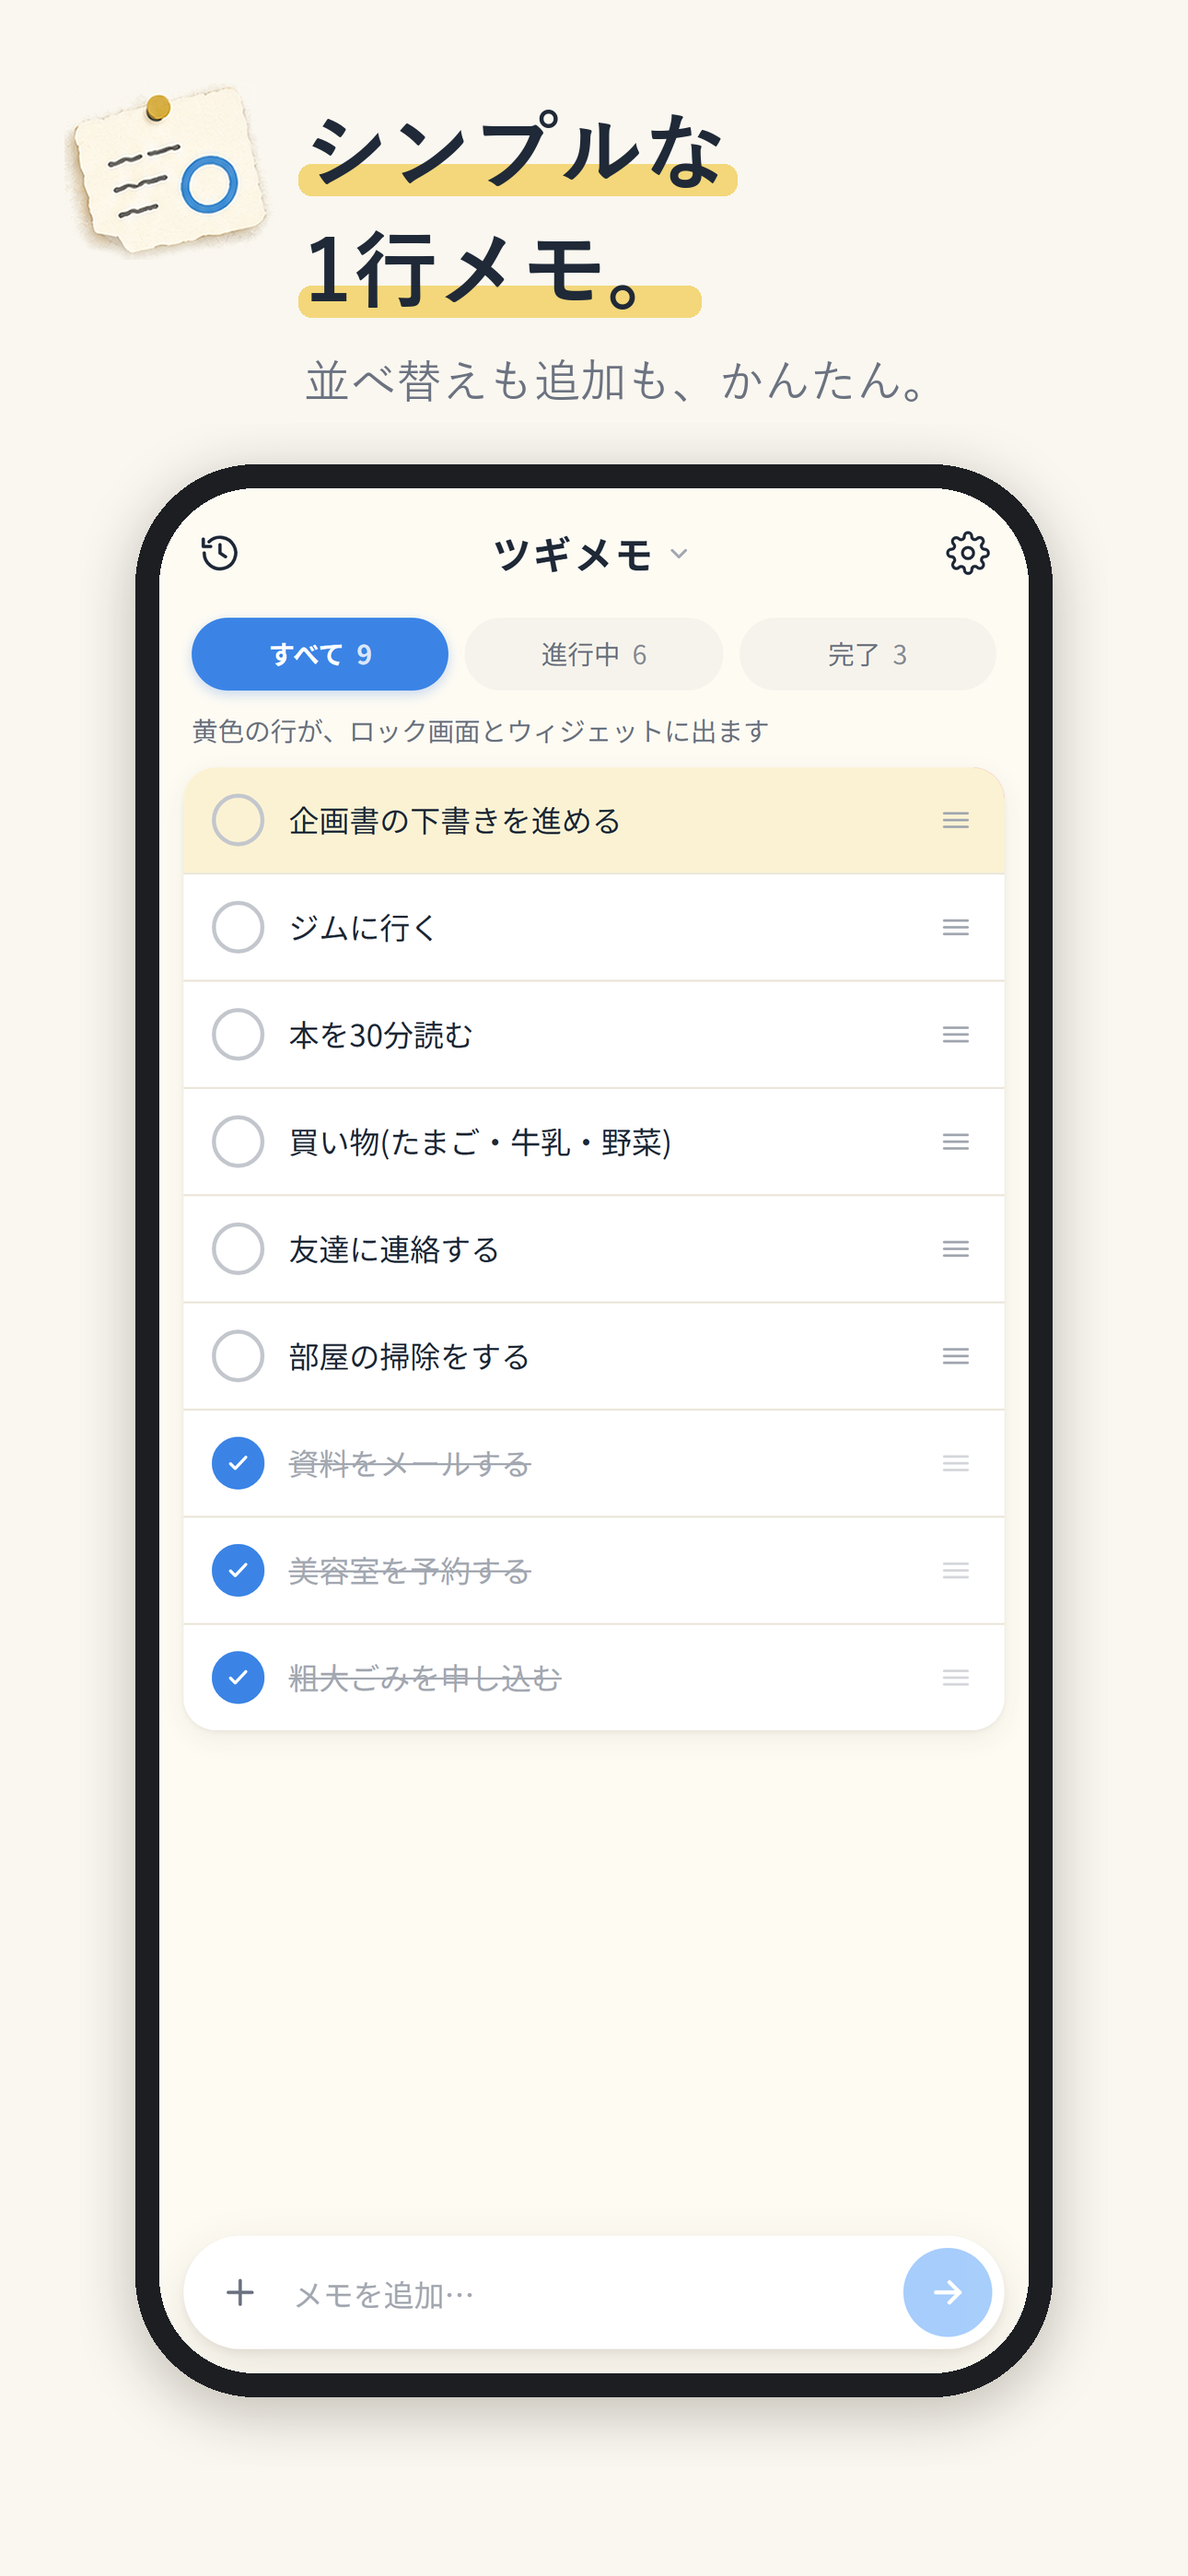
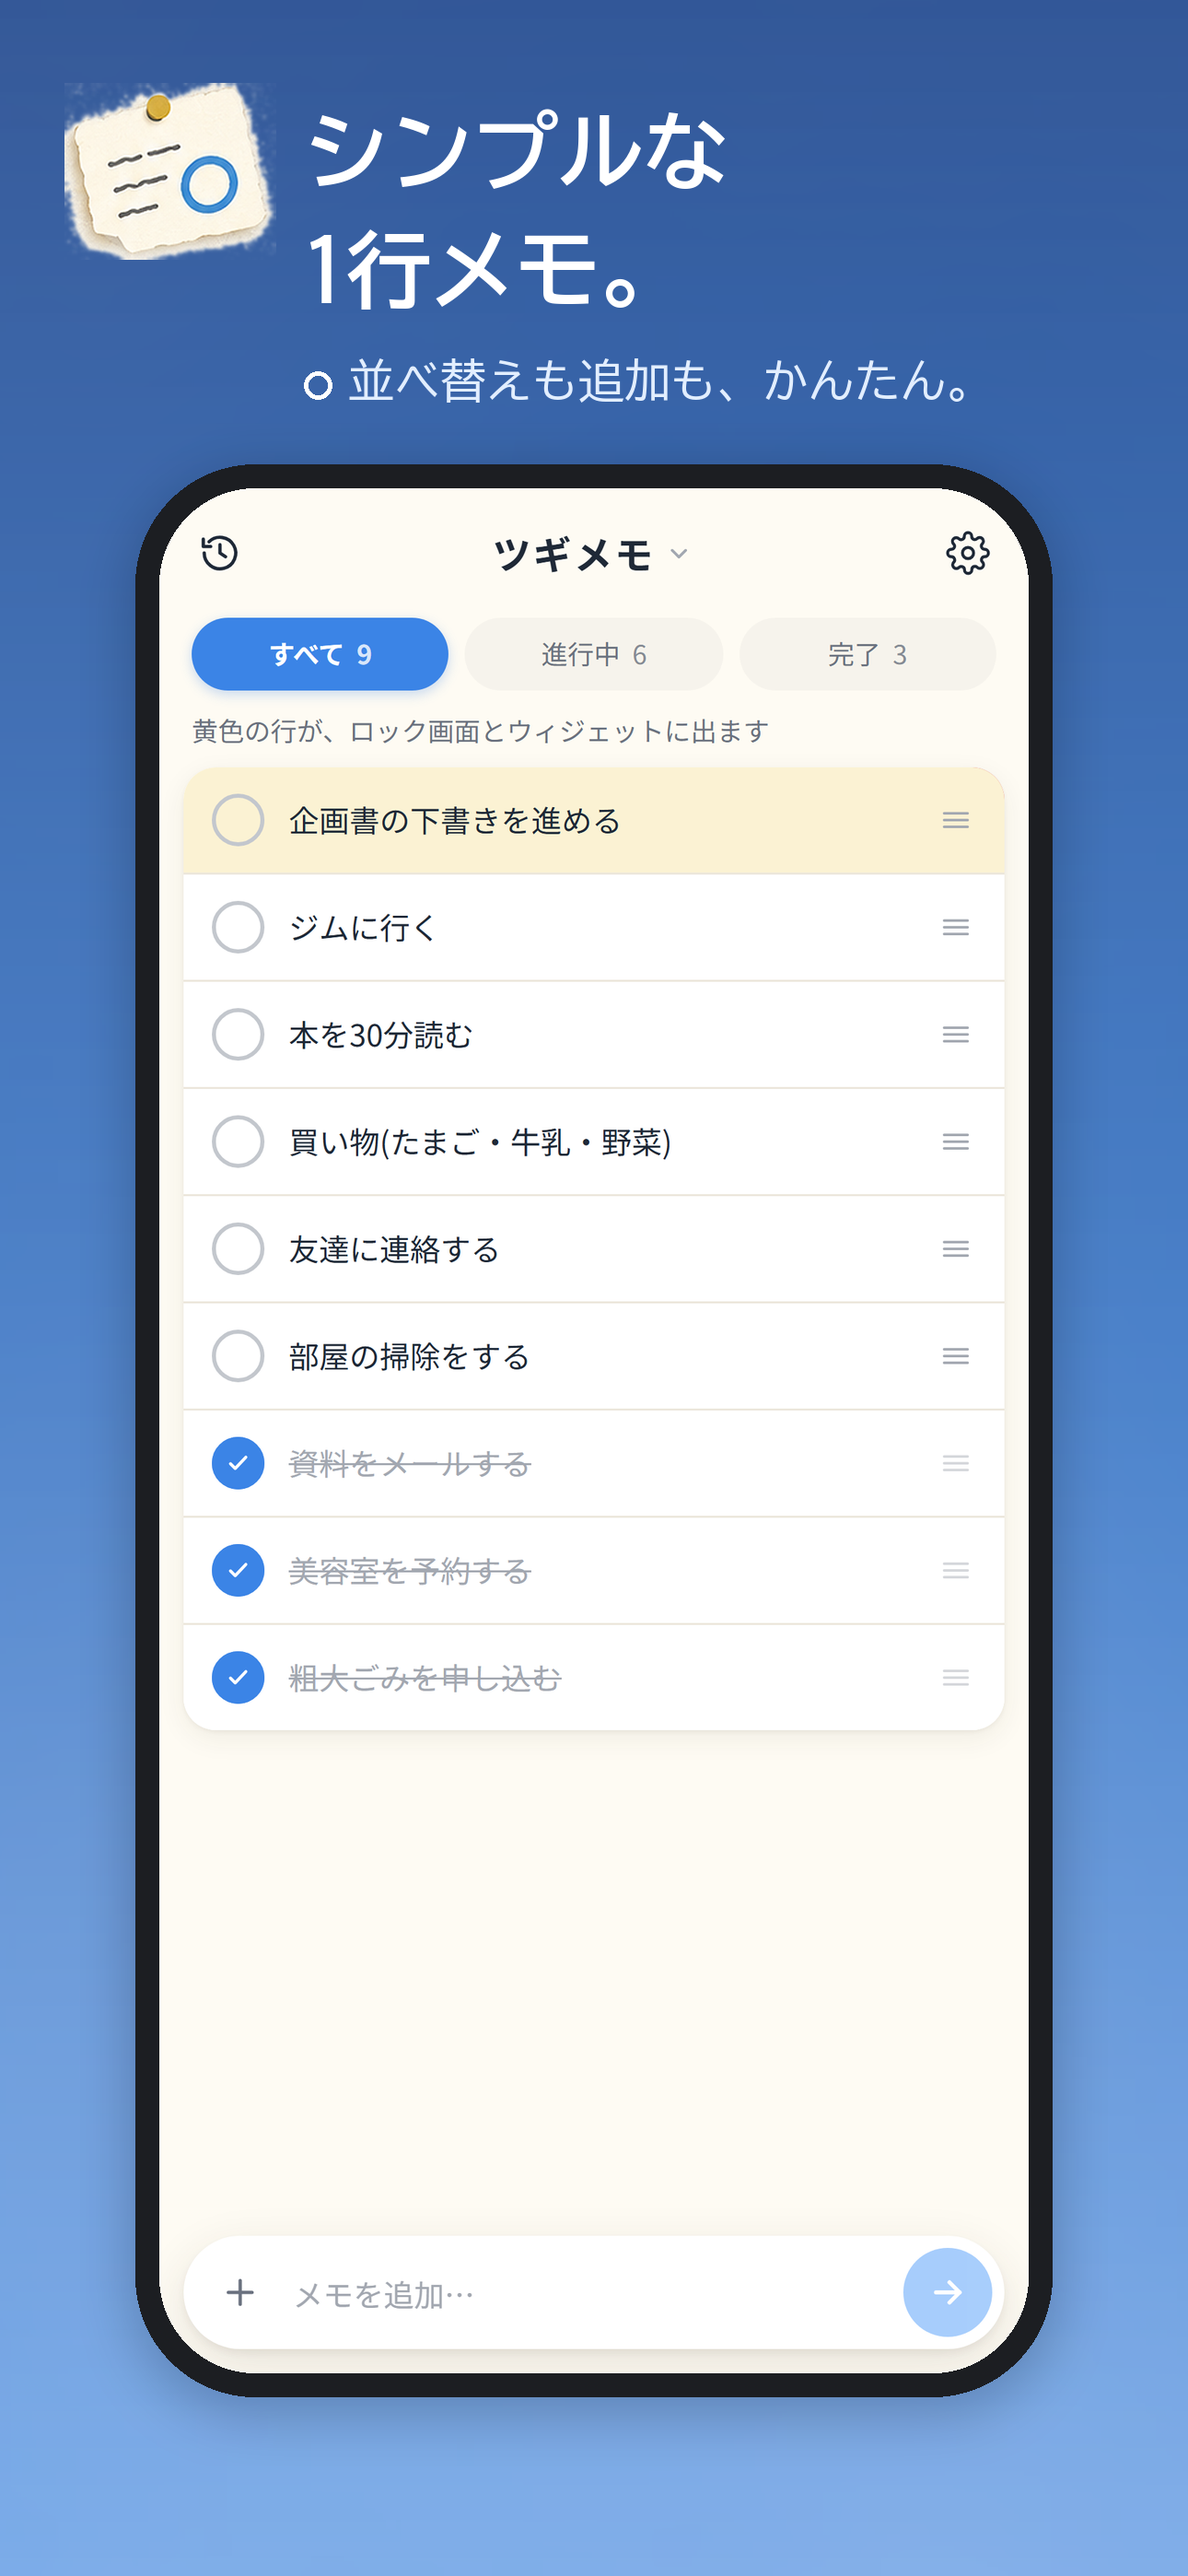
ストア画像の地を生成りの無地から空の写真と青に変える
見出しは白の BIZ UDゴシック、蛍光ペンの線をやめた。--compose-only で撮り直さずに組める。
生成りの版は store/_cream_backup_2026-10-10/ に退避。

diff --git a/scripts/make_store.py b/scripts/make_store.py
@@ -6,6 +6,9 @@ dist を vite preview で出しておく(npx vite preview --port 5207)。
 - 値段・「無料」は写さない(ツギメモ+ の案内の画面は使わない)
 - Play 用は ?platform=android で撮り、iPhone だけの物(ロック画面のウィジェット・ライブアクティビティ・9:41・カスタマイズ)を写さない
 元の版は store/_v1_backup2/ に残してある。
+2026-10-10 持ち主「Claude 特有の背景をなくして」: 生成りの無地と黄色い蛍光ペン線をやめた。
+地はアプリの空の壁紙(public/img/sky.jpg)の青い所をぼかして敷き、上から濃い青を重ねる。見出しは白の BIZ UDゴシック。
+生成りの版は store/_cream_backup_2026-10-10/ に退避。撮り直さずに組むだけなら --compose-only。
 """
 import json
 import os
@@ -15,7 +18,7 @@ import time
 from PIL import Image, ImageDraw, ImageFilter, ImageFont
 from playwright.sync_api import sync_playwright
 
-URL = sys.argv[1] if len(sys.argv) > 1 else "http://localhost:5207/"
+URL = next((a for a in sys.argv[1:] if not a.startswith("--")), None) or "http://localhost:5207/"
 ROOT = os.path.dirname(os.path.dirname(os.path.abspath(__file__)))
 STORE = os.path.join(ROOT, "store")
 IMG = os.path.join(ROOT, "public", "img")
@@ -23,13 +26,15 @@ RAW = os.path.join(STORE, "raw")
 for d in ("raw/ios", "raw/android", "iphone", "play"):
     os.makedirs(os.path.join(STORE, d), exist_ok=True)
 
-BG = (250, 247, 240)
 INK = (31, 41, 55)
+DEEP = (22, 64, 138)     # 地の上の濃い青
+WHITE = (255, 255, 255)
+SUBW = (226, 238, 255)
 INK2 = (107, 114, 128)
 BLUE = (59, 132, 230)
 PEN = (243, 215, 122)
-BOLD = "C:/Windows/Fonts/YuGothB.ttc"
-MED = "C:/Windows/Fonts/YuGothM.ttc"
+BOLD = "C:/Windows/Fonts/BIZ-UDGothicB.ttc"
+MED = "C:/Windows/Fonts/BIZ-UDGothicR.ttc"
 H = 3600 * 1000
 
 
@@ -145,15 +150,42 @@ def phone(shot, w, crop_h=None):
 def shadowed(canvas, img, xy, blur=30, alpha=70):
     sh = Image.new("RGBA", (img.width + blur * 4, img.height + blur * 4), (0, 0, 0, 0))
     a = img.split()[-1].point(lambda v: alpha if v > 0 else 0)
-    sh.paste((60, 50, 30, 255), (blur * 2, blur * 2), a)
+    sh.paste((10, 30, 70, 255), (blur * 2, blur * 2), a)
     sh = sh.filter(ImageFilter.GaussianBlur(blur))
     canvas.alpha_composite(sh, (xy[0] - blur * 2, xy[1] - blur * 2 + blur // 2))
     canvas.alpha_composite(img, xy)
 
 
+def sky_bg(W, Hh, blur=None):
+    """空の壁紙の青い上半分をぼかして全面に。上は濃い青、下へ行くほどアプリの青"""
+    src = Image.open(os.path.join(IMG, "sky.jpg")).convert("RGB")
+    src = src.crop((0, 0, src.width, round(src.height * 0.42)))
+    s = max(W / src.width, Hh / src.height)
+    src = src.resize((round(src.width * s) + 1, round(src.height * s) + 1), Image.LANCZOS)
+    x, y = (src.width - W) // 2, (src.height - Hh) // 2
+    im = src.crop((x, y, x + W, y + Hh)).filter(ImageFilter.GaussianBlur(blur or max(W, Hh) / 120))
+    g = Image.new("RGBA", (W, Hh))
+    gd = ImageDraw.Draw(g)
+    for yy in range(Hh):
+        t = yy / Hh
+        a = round(220 - 70 * t)
+        col = tuple(round(DEEP[i] + (BLUE[i] - DEEP[i]) * t) for i in range(3))
+        gd.line([(0, yy), (W, yy)], fill=col + (a,))
+    im = im.convert("RGBA")
+    im.alpha_composite(g)
+    return im
+
+
+def white_of(img):
+    """黒い手書きの題字を白に(形は透明度から)"""
+    w = Image.new("RGBA", img.size, WHITE + (0,))
+    w.putalpha(img.split()[-1])
+    return w
+
+
 def compose(shot, head, sub, W, Hh, out):
     k = W / 1290
-    c = Image.new("RGBA", (W, Hh), BG + (255,))
+    c = sky_bg(W, Hh)
     d = ImageDraw.Draw(c)
     # 左上にピンで留めた紙(見本のロゴ)
     logo = Image.open(os.path.join(IMG, "logo_paper.png")).convert("RGBA")
@@ -167,11 +199,13 @@ def compose(shot, head, sub, W, Hh, out):
     lines = head.split("\n")
     y = round(118 * k)
     for ln in lines:
-        bb = d.textbbox((x, y), ln, font=fh)
-        d.rounded_rectangle((bb[0] - 6, bb[3] - round(26 * k), bb[2] + 10, bb[3] + round(8 * k)), radius=round(14 * k), fill=PEN)
-        d.text((x, y), ln, font=fh, fill=INK)
+        d.text((x, y), ln, font=fh, fill=WHITE)
         y += round(128 * k)
-    d.text((x, y + round(14 * k)), sub, font=fs, fill=INK2)
+    # 蛍光ペンの線はやめ、アプリの「完了の丸」を小さく添える
+    r = round(15 * k)
+    cy = y + round(14 * k) + round(30 * k)
+    d.ellipse((x, cy - r, x + 2 * r, cy + r), outline=WHITE, width=max(3, round(5 * k)))
+    d.text((x + 2 * r + round(18 * k), y + round(14 * k)), sub, font=fs, fill=SUBW)
     top = y + round(130 * k)
     pw = round(1000 * k)
     ph = phone(shot, pw - round(56 * k), crop_h=Hh - top - round(60 * k))
@@ -199,15 +233,15 @@ ANDROID = [
 
 def feature():
     W, Hh = 1024, 500
-    c = Image.new("RGBA", (W, Hh), BG + (255,))
+    c = sky_bg(W, Hh, blur=6)
     d = ImageDraw.Draw(c)
     logo = Image.open(os.path.join(IMG, "logo_paper.png")).convert("RGBA").resize((150, 125), Image.LANCZOS)
     c.alpha_composite(logo, (60, 60))
     title = Image.open(os.path.join(IMG, "title.png")).convert("RGBA")
     title = title.resize((380, round(title.height * 380 / title.width)), Image.LANCZOS)
-    c.alpha_composite(title, (56, 200))
-    d.text((64, 380), "見ないで忘れる、をなくす。", font=ImageFont.truetype(BOLD, 34), fill=INK)
-    d.text((64, 432), "ロック画面とホーム画面に、つぎにやる1行。", font=ImageFont.truetype(MED, 22), fill=INK2)
+    c.alpha_composite(white_of(title), (56, 200))
+    d.text((64, 380), "見ないで忘れる、をなくす。", font=ImageFont.truetype(BOLD, 34), fill=WHITE)
+    d.text((64, 432), "ロック画面とホーム画面に、つぎにやる1行。", font=ImageFont.truetype(MED, 22), fill=SUBW)
     shot = Image.open(os.path.join(RAW, "android", "lock.png")).convert("RGB").resize((430, 932), Image.LANCZOS).crop((0, 150, 430, 640))
     m = Image.new("L", shot.size, 0)
     ImageDraw.Draw(m).rounded_rectangle((0, 0, shot.width - 1, shot.height - 1), radius=34, fill=255)
@@ -218,7 +252,8 @@ def feature():
 
 
 if __name__ == "__main__":
-    shoot()
+    if "--compose-only" not in sys.argv:
+        shoot()
     for i, (raw, head, sub) in enumerate(IOS, 1):
         compose(os.path.join(RAW, "ios", raw), head, sub, 1290, 2796, os.path.join(STORE, "iphone", f"iphone_{i}.png"))
     for i, (raw, head, sub) in enumerate(ANDROID, 1):

diff --git a/store/_cream_backup_2026-10-10/play/data_safety_and_rating.md b/store/_cream_backup_2026-10-10/play/data_safety_and_rating.md
@@ -1,0 +1,29 @@
+# Play Console の回答案
+
+## データ セーフティ
+- アプリはユーザーデータを収集または共有しますか: はい(購入の記録のみ。RevenueCat 経由)
+  - 書いたメモは端末の中だけ。収集にあたらない(端末外へ送らないため)
+- 収集するデータの種類
+  - アプリのアクティビティ > アプリ内の操作: いいえ
+  - 金融情報 > 購入履歴: はい(収集する・共有しない)。目的: アプリの機能(購入の確認)。任意ではない(購入する時のみ)。処理は一時的ではない
+  - デバイスまたはその他の ID: はい(RevenueCat の匿名 ID)。目的: アプリの機能
+  - 個人情報(名前・メール・住所・電話): いいえ / 位置情報: いいえ / 写真・動画・音声: いいえ / 連絡先: いいえ
+- 転送時の暗号化: はい(HTTPS)
+- データの削除をリクエストする方法: アプリを削除すると端末内のデータは消える。購入の記録はストアの仕組みに従う
+
+## コンテンツのレーティング(IARC の質問票)
+- カテゴリ: ユーティリティ、生産性、コミュニケーション、その他
+- 暴力・性的表現・言葉づかい・規制物質・ギャンブル: すべて いいえ
+- ユーザー同士のやりとり・共有: いいえ(共有機能なし)
+- 位置情報の共有: いいえ
+- デジタル商品の購入: はい(アプリ内課金 ツギメモ+)
+- 見込み: 全年齢(IARC 3+)
+
+## ターゲット ユーザー
+- 18歳以上(子ども向けではない)。広告なし
+
+## 権限の説明(審査で聞かれた時)
+- POST_NOTIFICATIONS: 利用者が「ロック画面にお知らせで出す」をオンにした時だけ求める。いまの1行をロック画面に音なしで出すため
+
+## アプリのアクセス権
+- ログインなし。全機能がそのまま使える(ツギメモ+ は購入が必要)
